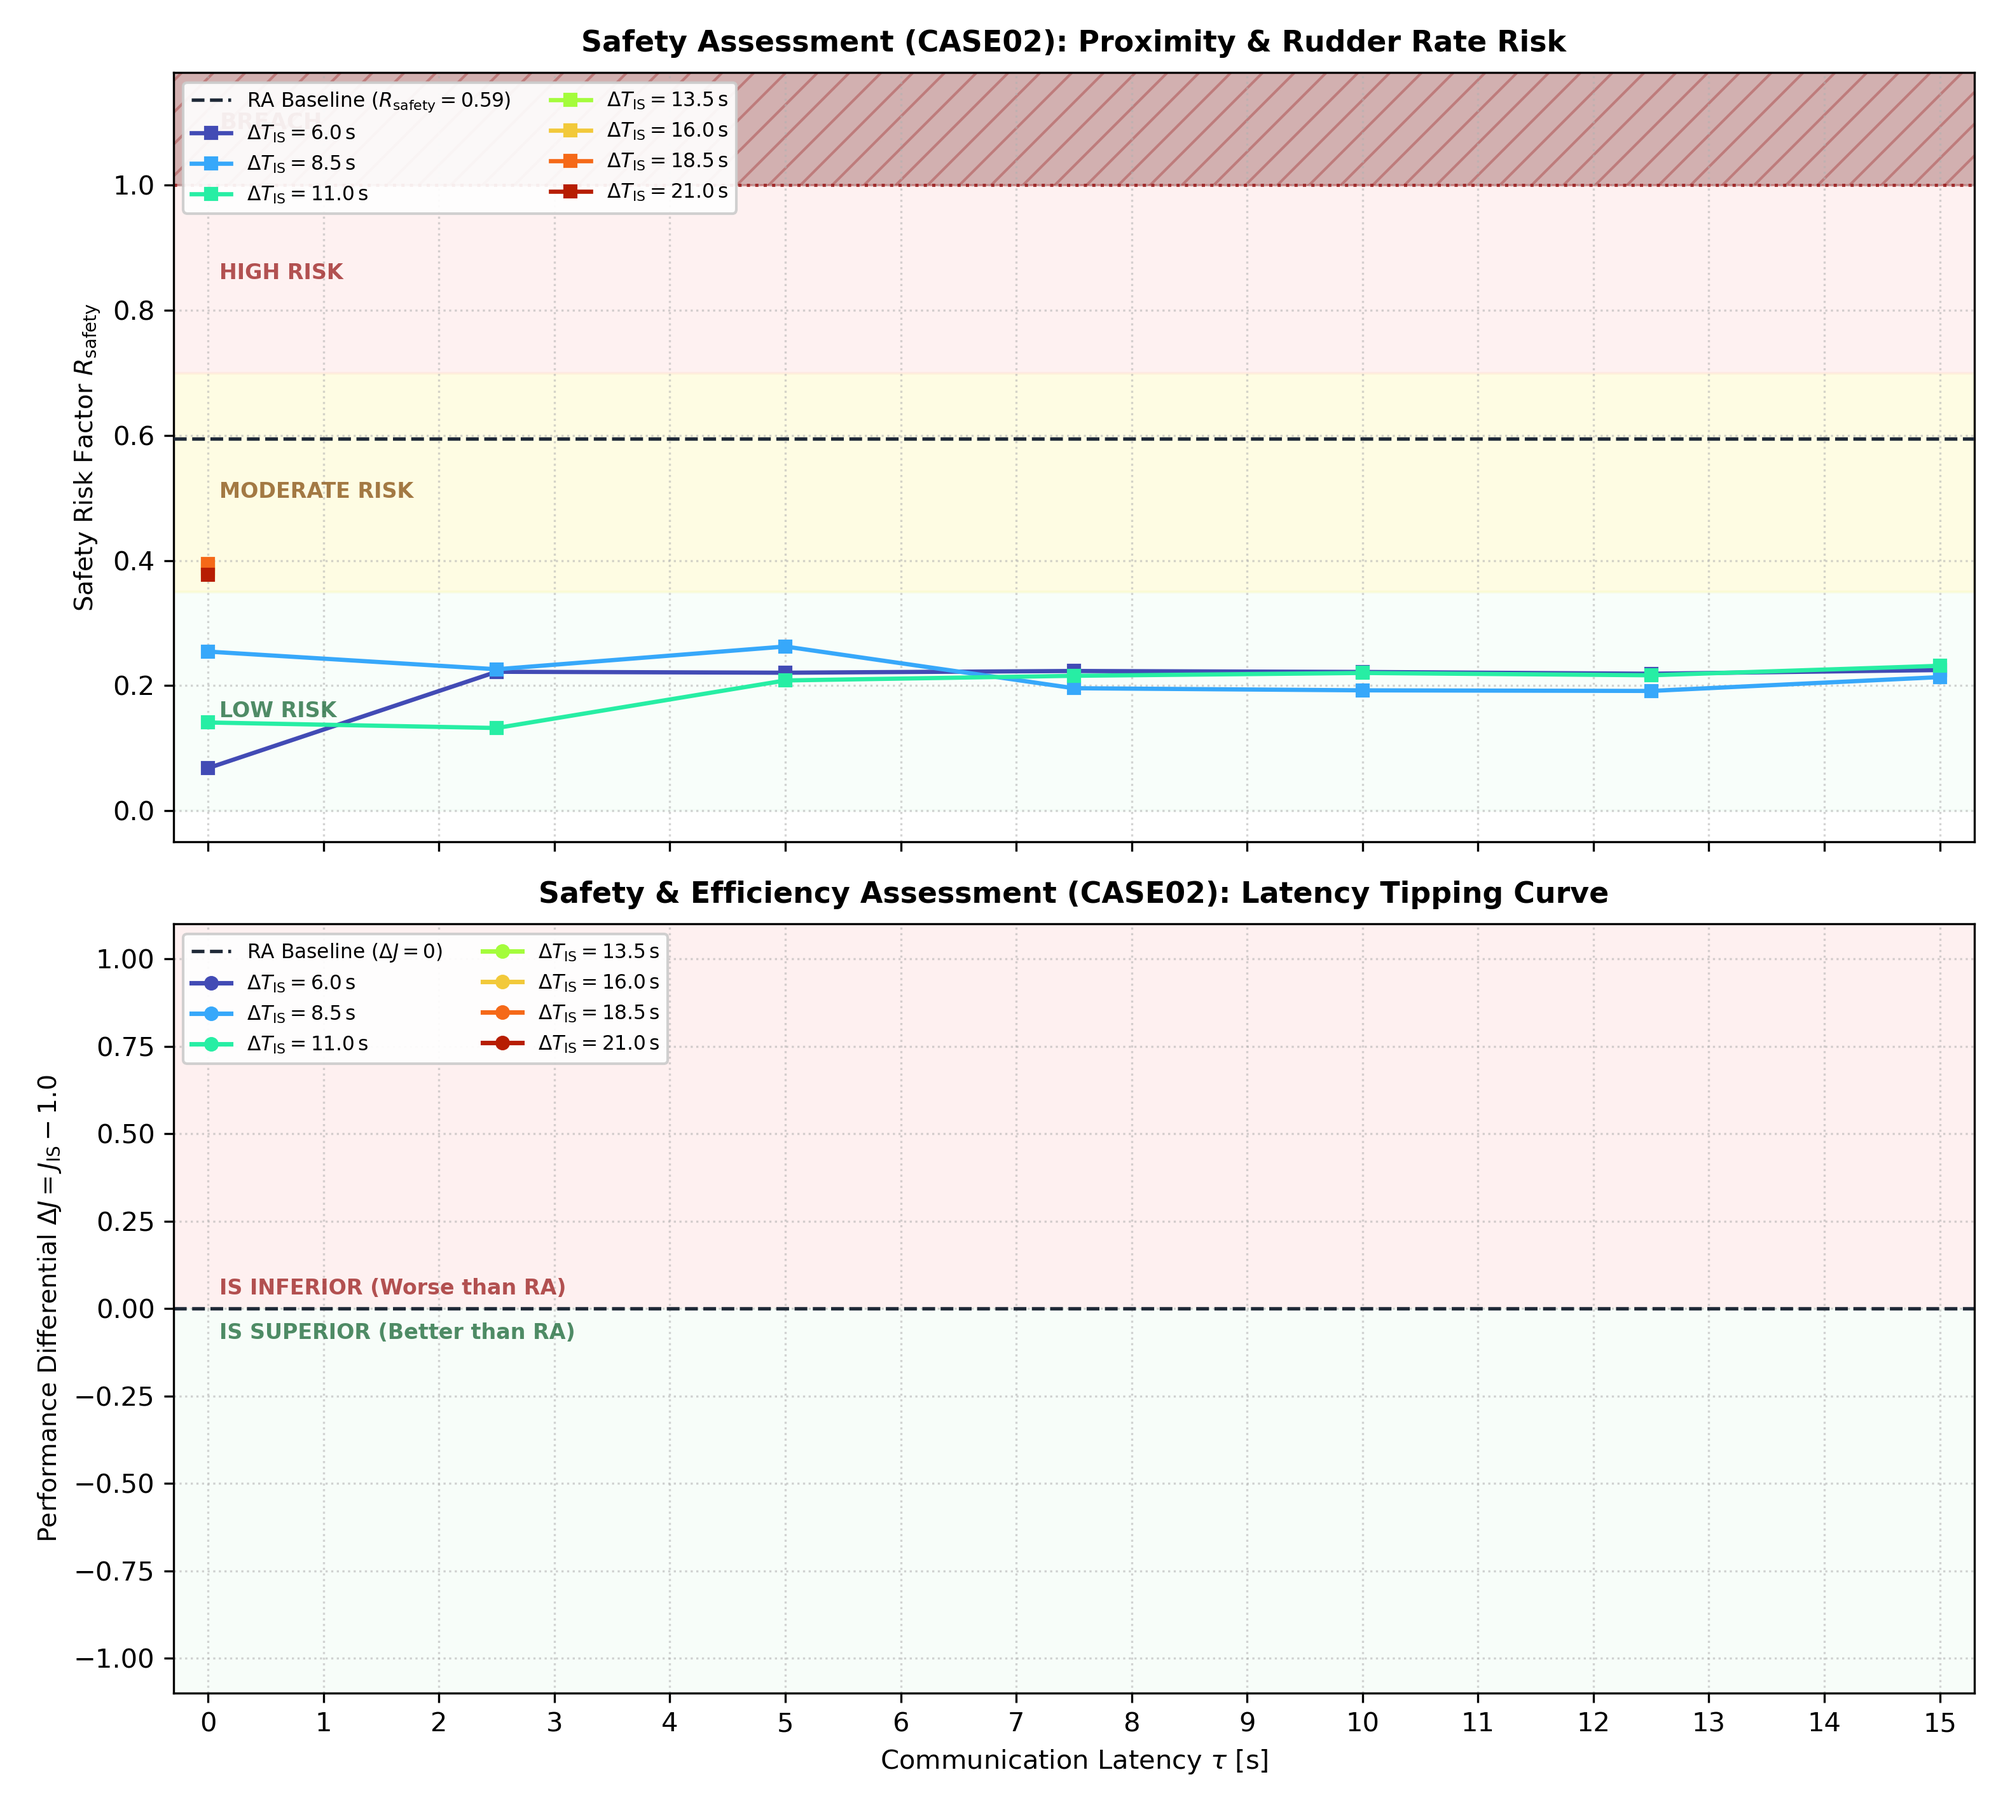
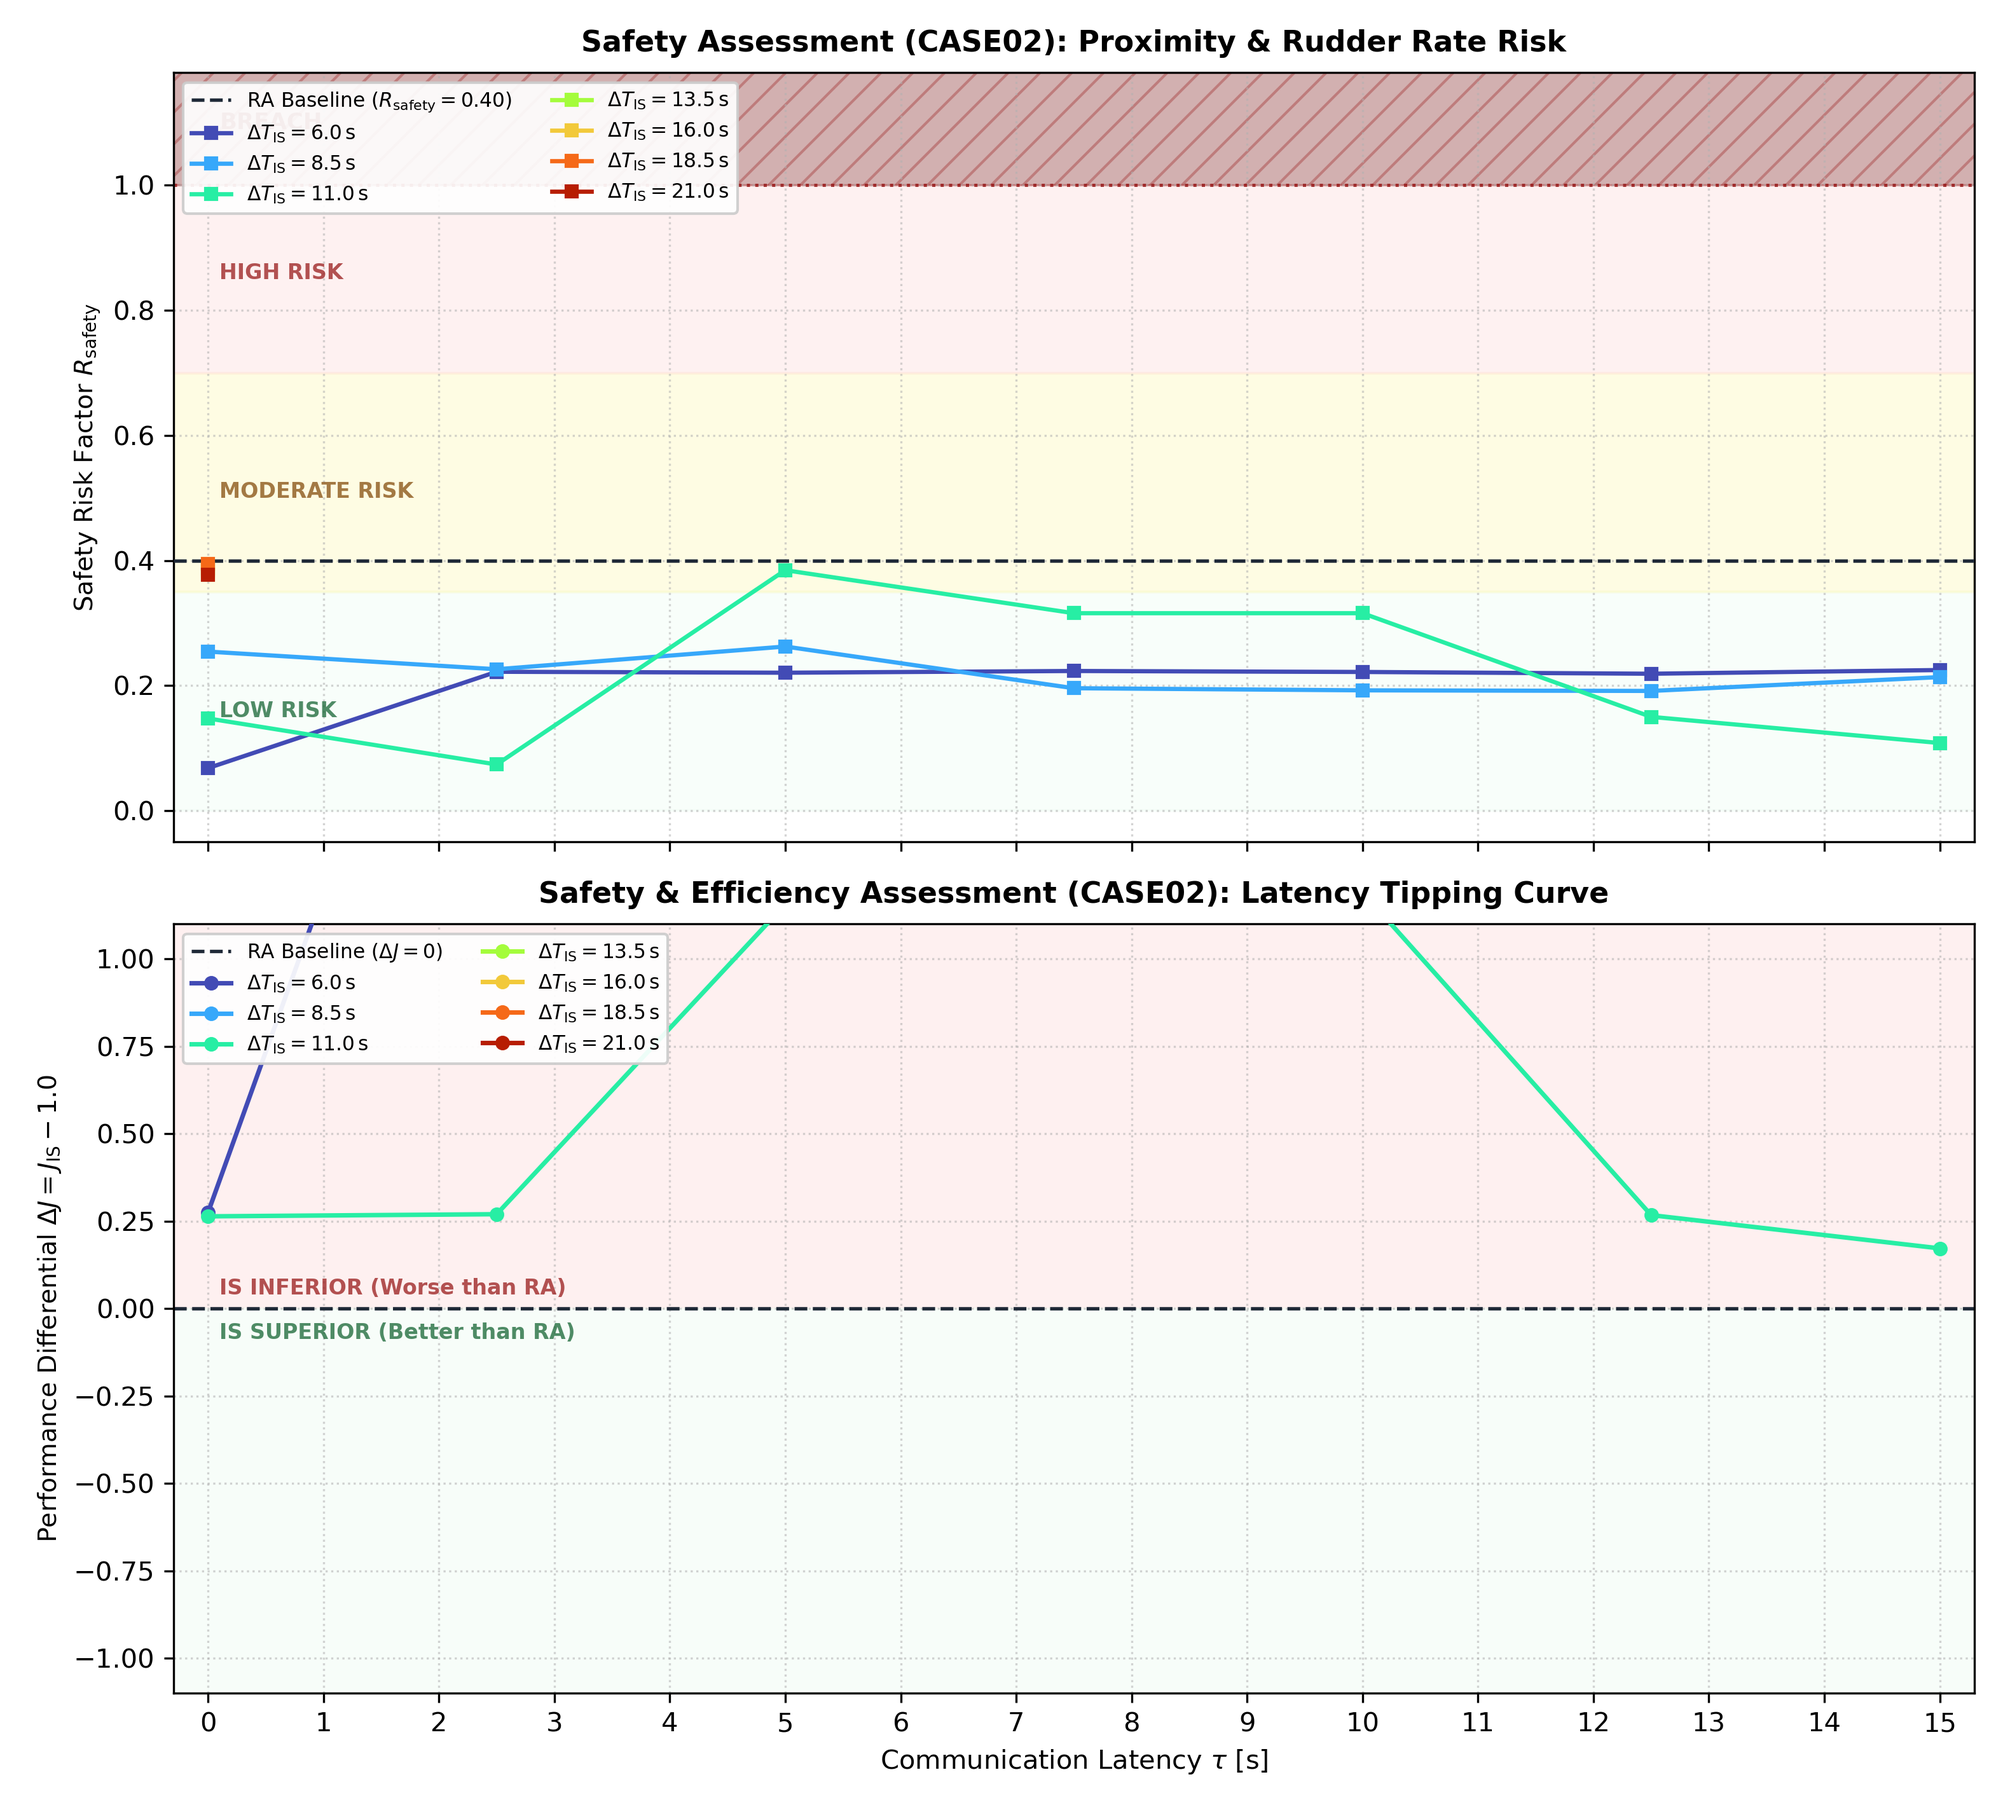
latent messages outside of communication range will not be accepted anymore

diff --git a/ros2_ws/src/own_ship/own_ship/own_ship_node.py b/ros2_ws/src/own_ship/own_ship/own_ship_node.py
@@ -195,6 +195,7 @@ class OSTransceiverNode(Node):
         # --- Intent Timing Diagnostics ---
         self.t_first_intent_rx: Optional[float] = None
         self.t_advance: Optional[float] = None
+        self.intent_packet_buffer: list[tuple[float, np.ndarray, np.ndarray]] = []
 
         StateEstimation.reset()
 
@@ -254,48 +255,35 @@ class OSTransceiverNode(Node):
         self.x_ts_est = fresh_state.copy()
 
     def ts_route_callback(self, msg: RouteIntent):
-        # Ignore intent broadcast packets when outside communication range
-        if not self.in_intent_range:
+        # Ignore if we don't have TS tracking info yet
+        if self.x_ts_est is None:
             return
 
-        self.w_ts_delayed = np.array([[pt.x, pt.y] for pt in msg.route], dtype=np.float64)
+        # 1. Transmitter Range Check at Transmission Time (t_tx):
+        dist_at_tx = float(np.linalg.norm(self.internal_state[:2] - self.x_ts_est[:2]))
 
-        # First-time reception trigger and t_advance calculation
-        if self.t_first_intent_rx is None:
-            self.t_first_intent_rx = float(self.sim_time)
-            self.t_intent_shared = float(self.sim_time)
+        u_os = self.internal_state[5]
+        psi_os = self.internal_state[2]
+        v_os = np.array([u_os * np.cos(psi_os), u_os * np.sin(psi_os)])
 
-            if self.x_ts_est is not None and abs(self.x_ts_est[0]) < 900.0:
-                p_os = self.internal_state[:2]
-                psi_os = self.internal_state[2]
-                u_os = self.internal_state[5]
-                v_os_vec = np.array([u_os * np.cos(psi_os), u_os * np.sin(psi_os)])
+        u_ts = self.x_ts_est[3]
+        psi_ts = self.x_ts_est[2]
+        v_ts = np.array([u_ts * np.cos(psi_ts), u_ts * np.sin(psi_ts)])
 
-                p_ts = self.x_ts_est[:2]
-                psi_ts = self.x_ts_est[2]
-                u_ts = self.x_ts_est[3]
-                v_ts_vec = np.array([u_ts * np.cos(psi_ts), u_ts * np.sin(psi_ts)])
+        v_rel_norm = float(np.linalg.norm(v_os - v_ts))
+        t_tactical_sim = 300.0 / np.sqrt(30.0)
+        dynamic_r_is = max(self.min_intent_range, v_rel_norm * t_tactical_sim)
+        r_connect = max(float(self.min_intent_range), float(dynamic_r_is))
 
-                dp = p_ts - p_os
-                dv = v_ts_vec - v_os_vec
-                dv_sq = float(np.dot(dv, dv))
+        # Drop packet if broadcast occurred while TS was still outside radio range
+        if dist_at_tx > r_connect:
+            return
 
-                if dv_sq > 1e-4:
-                    tcpa_relative = -float(np.dot(dp, dv)) / dv_sq
-                    self.t_advance = tcpa_relative
-                else:
-                    self.t_advance = np.nan
-            else:
-                self.t_advance = np.nan
+        # 2. Schedule Delivery Time with Latency (tau)
+        t_tx = float(self.sim_time)
+        t_delivery = t_tx + self.sim_latency
 
-            t_adv_str = f"{self.t_advance:.2f}s" if np.isfinite(self.t_advance) else "N/A"
-            self.get_logger().info(
-                f"\033[95m[INTENT RX] First packet received at t={self.t_first_intent_rx:.2f}s | "
-                f"t_advance (TCPA margin): {t_adv_str}\033[0m"
-            )
-
-        # Forward the perceived intent to the live plotter
-        self.ts_perceived_route_pub.publish(msg)
+        self.intent_packet_buffer.append((t_delivery, msg))
 
     def step_gnc_pipeline(self):
         if self.sim_finished:
@@ -376,6 +364,64 @@ class OSTransceiverNode(Node):
             x_ts_for_gnc = np.array([999.0, 999.0, 0.0, 0.0, 0.0, 0.0], dtype=np.float64)
 
         prev_state = self.cached["state"]
+
+        # --- Approach 1: Process Incoming Intent Delivery Queue ---
+        ready_packets = []
+        pending_packets = []
+        for t_deliv, msg_candidate in self.intent_packet_buffer:
+            if self.sim_time >= t_deliv:
+                ready_packets.append((t_deliv, msg_candidate))
+            else:
+                pending_packets.append((t_deliv, msg_candidate))
+        self.intent_packet_buffer = pending_packets
+
+        # If a packet reached its delivery time and OS is within valid range:
+        if ready_packets and self.in_intent_range:
+            # Promote the latest delivered packet to active intent
+            _, latest_delivered_msg = ready_packets[-1]
+            self.w_ts_delayed = np.array([[pt.x, pt.y] for pt in latest_delivered_msg.route], dtype=np.float64)
+
+            # --- Evaluate t_first_intent_rx and t_advance at Actual Delivery ---
+            if self.t_first_intent_rx is None:
+                self.t_first_intent_rx = float(self.sim_time)
+                self.t_intent_shared = float(self.sim_time)
+
+                if self.x_ts_est is not None and abs(self.x_ts_est[0]) < 900.0:
+                    p_os = self.internal_state[:2]
+                    psi_os = self.internal_state[2]
+                    u_os = self.internal_state[5]
+                    v_os_vec = np.array([u_os * np.cos(psi_os), u_os * np.sin(psi_os)])
+
+                    p_ts = self.x_ts_est[:2]
+                    psi_ts = self.x_ts_est[2]
+                    u_ts = self.x_ts_est[3]
+                    v_ts_vec = np.array([u_ts * np.cos(psi_ts), u_ts * np.sin(psi_ts)])
+
+                    dp = p_ts - p_os
+                    dv = v_ts_vec - v_os_vec
+                    dv_sq = float(np.dot(dv, dv))
+
+                    if dv_sq > 1e-4:
+                        tcpa_relative = -float(np.dot(dp, dv)) / dv_sq
+                        self.t_advance = tcpa_relative
+                    else:
+                        self.t_advance = np.nan
+                else:
+                    self.t_advance = np.nan
+
+                t_adv_str = f"{self.t_advance:.2f}s" if np.isfinite(self.t_advance) else "N/A"
+                self.get_logger().info(
+                    f"\033[95m[INTENT RX] First packet received at t={self.t_first_intent_rx:.2f}s | "
+                    f"t_advance (TCPA margin): {t_adv_str}\033[0m"
+                )
+
+            # Forward the perceived intent to the live plotter
+            self.ts_perceived_route_pub.publish(latest_delivered_msg)
+
+        # Clear buffer if vessels disengage or drop out of range
+        if not self.in_intent_range:
+            self.w_ts_delayed = None
+            self.intent_packet_buffer.clear()
 
         # 2. Step Synchronous Pipeline
         self.internal_state, self.cached, telemetry = SynchronousPipeline.step(

diff --git a/gnc_core/imazu_cases/case02/case02_config.py b/gnc_core/imazu_cases/case02/case02_config.py
@@ -60,7 +60,7 @@ CASE02_CONFIG = {
     "ts_mission_wps": np.array([
         [ 20.0, -1.5],   # Start (Matches Akdag [-100, 2000])
         [ 3.0, -1.5],   # Turn Point (Matches Akdag [-100, 500])
-        [-20.0, 5.5]    # End Point (Matches Akdag [1000, -2000] retaining the 23.7 deg angle)
+        [-20.0, 7.5]    # End Point (Matches Akdag [1000, -2000] retaining the 23.7 deg angle)
     ], dtype=np.float64),
     
     "t_sim": 120.0
